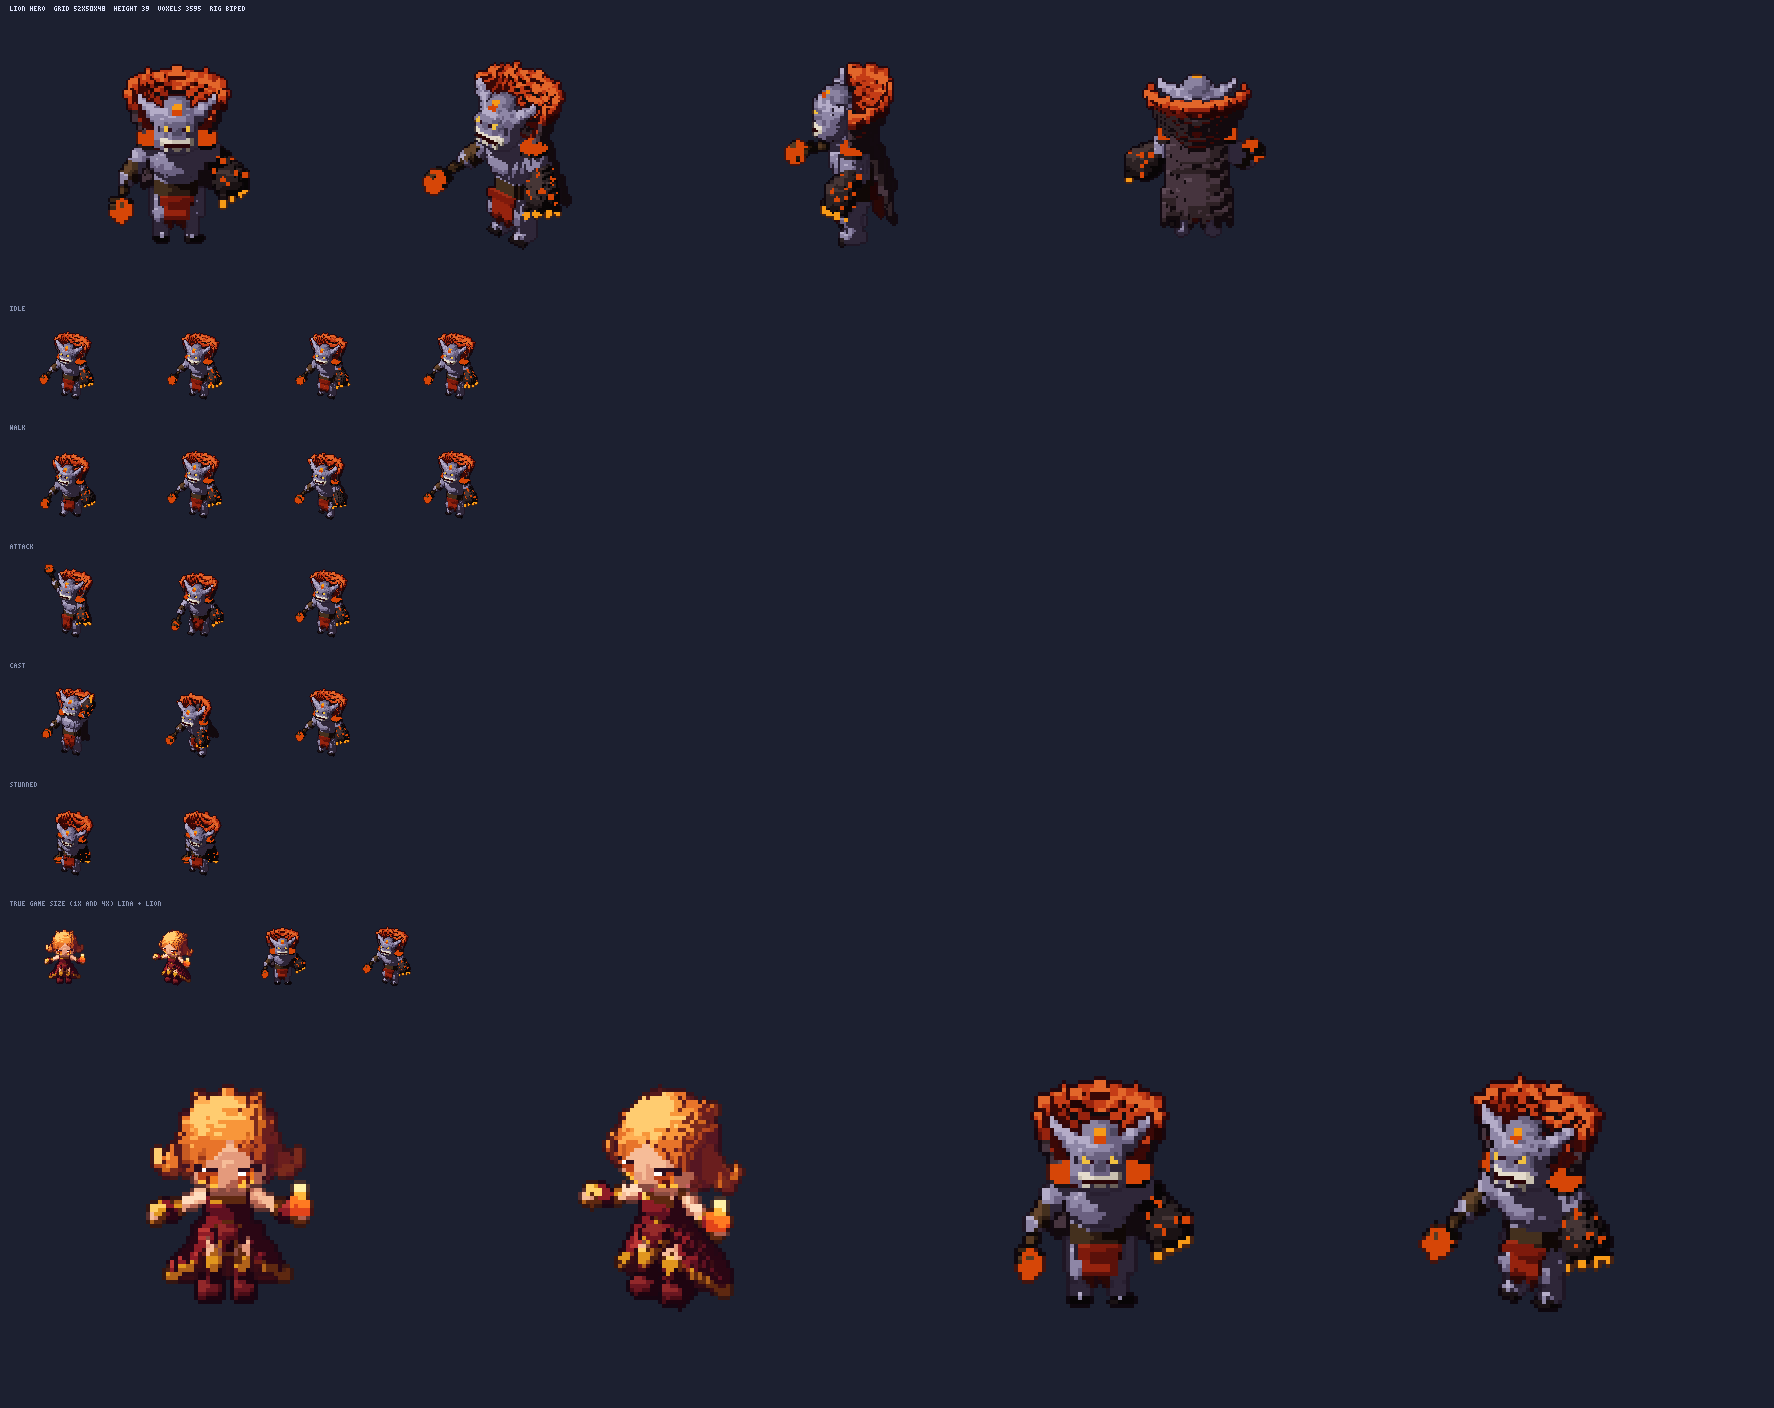
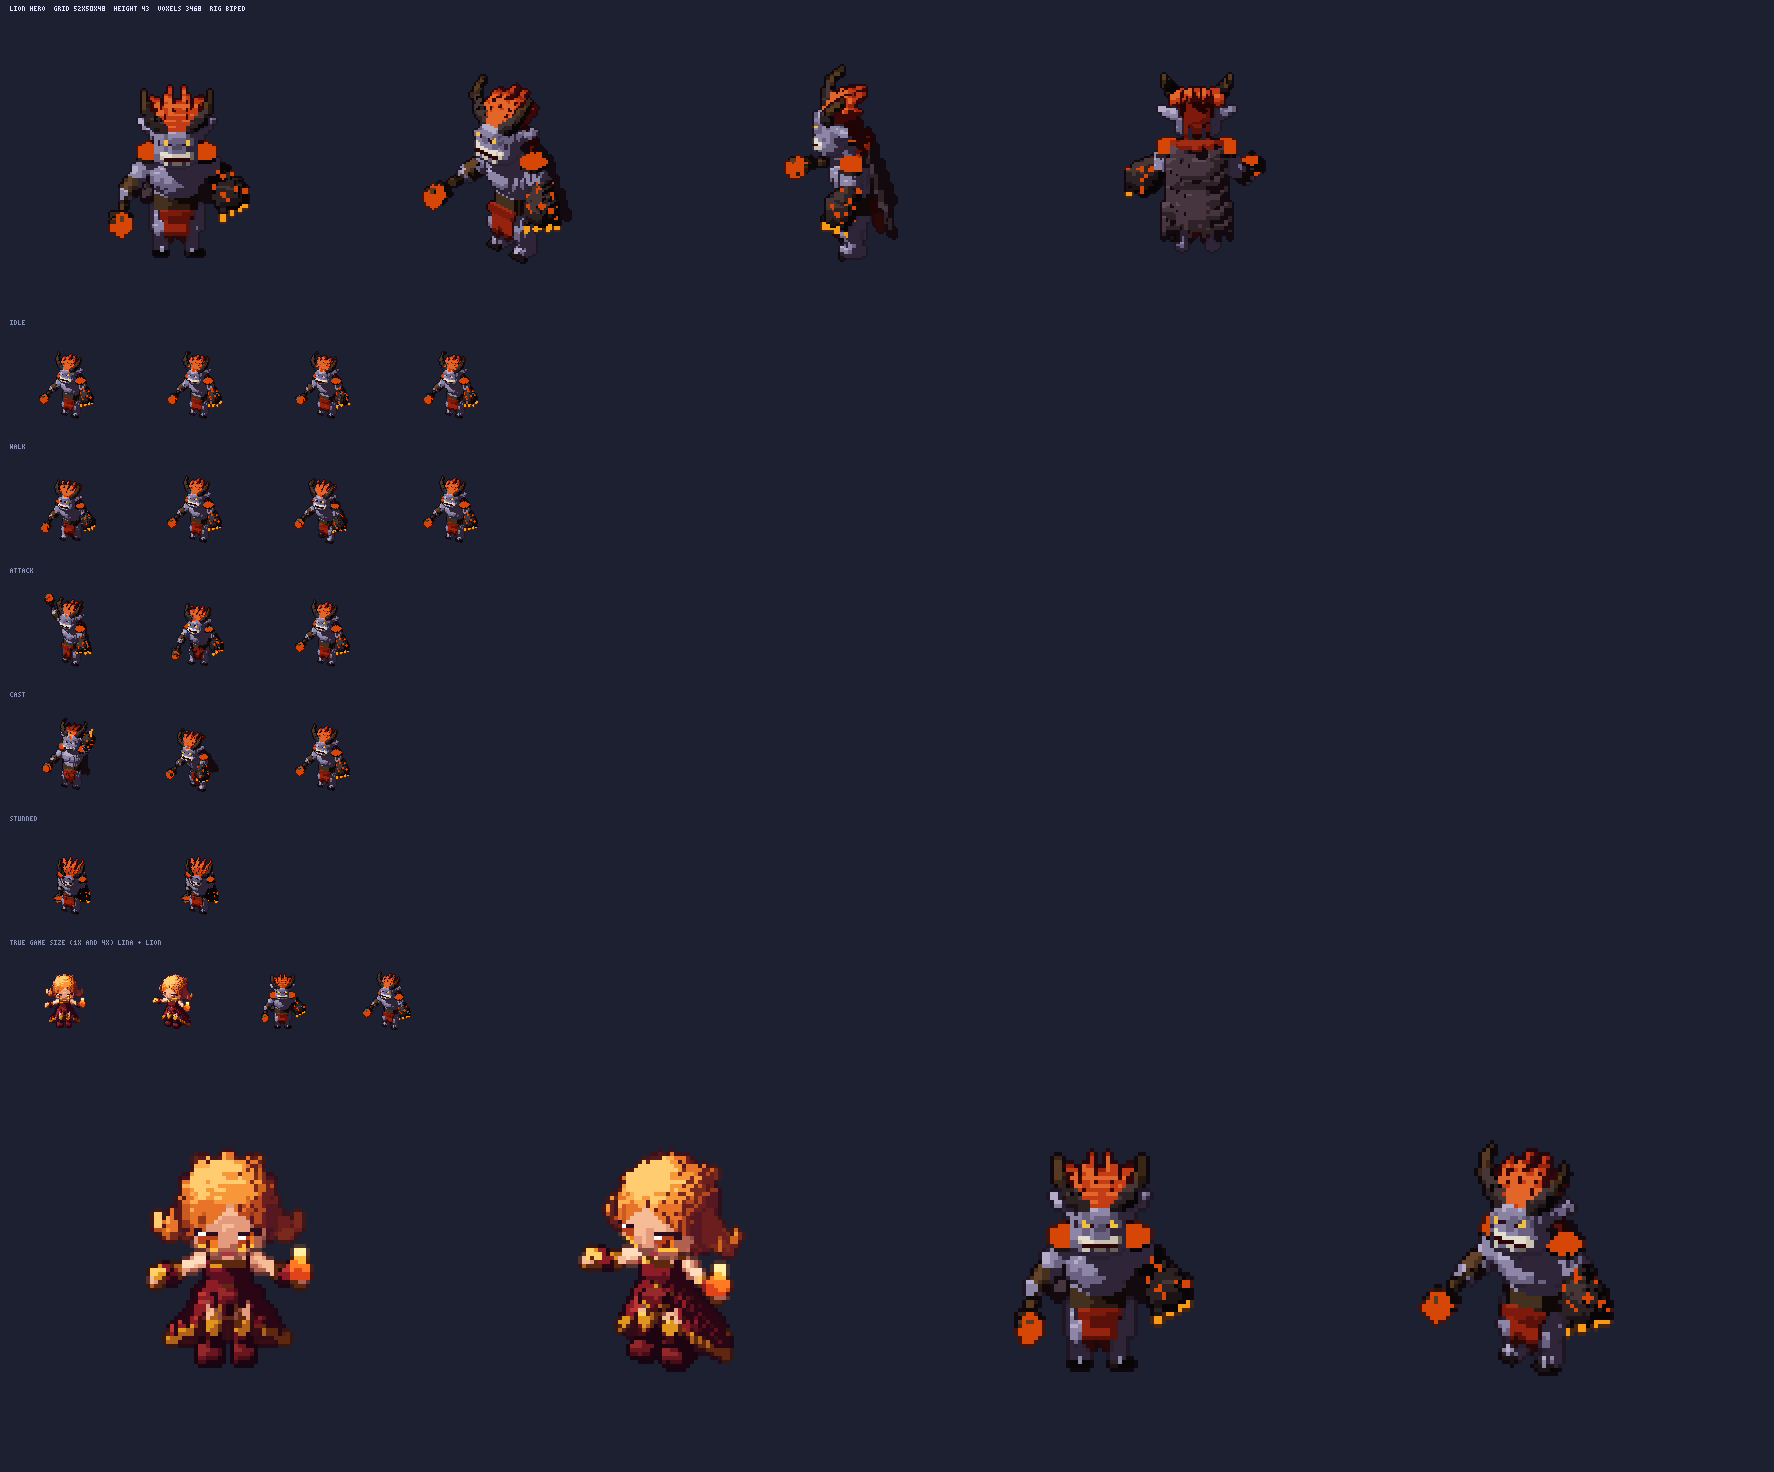
Lion review fixes: swept-back mane + two curved horns (no hood fan), brighter portrait framed on the face

diff --git a/client/src/art/portraits/lion.js b/client/src/art/portraits/lion.js
@@ -1,7 +1,7 @@
 // GENERATED by tools/vox/portrait.mjs (lion) -- do not edit by hand. Voxel HUD portrait 32x42 (= the 32x42 the HUD shows, 1 art px = 1 u), opaque.
 // Loaded by client/src/art/portraits.js, which swaps it into the sheet's 'portrait' frame unless ?vox=0.
 export default {
-  pal: { '0':'#060405', '1':'#9aa7e3', '2':'#1f1624', '3':'#d9c1b5', '4':'#241e2c', '5':'#847477', '6':'#8c401f', '7':'#c2633e', '8':'#120911', '9':'#0e070e', '!':'#141110', '#':'#1f1613', '$':'#351f16', '%':'#2e2638', '&':'#6a6080', '(':'#5a2d1a', ')':'#3a0806', '*':'#24080e', '+':'#d64607', ',':'#080506', '-':'#8e86a6', '/':'#58493d', ':':'#0c0605', ';':'#c8c0b0', '<':'#2a0608', '=':'#eea26e', '>':'#d96f42', '?':'#6a6058', '@':'#4e4760', 'A':'#c43c16', 'B':'#b29582', 'C':'#120a0e', 'D':'#41140f', 'E':'#a78c74', 'F':'#94553a', 'G':'#6a6280', 'H':'#0b050b', 'I':'#534b64', 'J':'#8d7357', 'K':'#9ca9e3', 'L':'#18060d', 'M':'#757eac', 'N':'#0e080b', 'O':'#b08598', 'P':'#f79a16', 'Q':'#c6afa3', 'R':'#99a5e1', 'S':'#b4a4ae', 'T':'#746668', 'U':'#2f2226', 'V':'#737bae', 'W':'#221c2c', 'X':'#715c54', 'Y':'#fbe4c4', 'Z':'#1a1214', '[':'#11080e', ']':'#2a1a12', '^':'#453930', '_':'#7882b1', 'a':'#4e567a', 'b':'#826d5a', 'c':'#18111c', 'd':'#b28a9d', 'e':'#b1889a', 'f':'#96230e', 'g':'#a2919b', 'h':'#988992', 'i':'#d08864', 'j':'#8f6a8e', 'k':'#954d37', 'l':'#f0c040', 'm':'#2a0e1e', 'n':'#625048', 'o':'#74769a', 'p':'#0d060b', 'q':'#44301e', 'r':'#646e9d', 's':'#a9978d', 't':'#4d3d2e', 'u':'#675a5d', 'v':'#140e10', 'w':'#9eaae4', 'x':'#8995d1', 'y':'#8793d0', 'z':'#8a7b82', '{':'#747bae', '|':'#7178ac', '}':'#b3a28e', '~':'#7279ad', '¡':'#96a2dd', '¢':'#66709f', '£':'#634e3b', '¤':'#100806', '¥':'#46343e', '¦':'#6f6981', '§':'#372930', '¨':'#493a43', '©':'#090605', 'ª':'#352517', '«':'#120d15', '¬':'#2d1e11', '®':'#886f53', '¯':'#291e24', '°':'#424458', '±':'#180f0a', '²':'#3a2d22', '³':'#050303', '´':'#905a0d', 'µ':'#371b0e' },
+  pal: { '0':'#292232', '1':'#0e070e', '2':'#0f080e', '3':'#d9c1b5', '4':'#24080e', '5':'#a78c74', '6':'#070405', '7':'#b4acc8', '8':'#4e4760', '9':'#58493d', '!':'#141110', '#':'#1f1613', '$':'#351f16', '%':'#2e2638', '&':'#6a6080', '(':'#d64607', ')':'#1a1214', '*':'#96230e', '+':'#1f1624', ',':'#080506', '-':'#5a2d1a', '/':'#8e86a6', ':':'#847477', ';':'#2a0608', '<':'#c8c0b0', '=':'#41140f', '>':'#6a6058', '?':'#af8e6b', '@':'#9ca9e5', 'A':'#5f5673', 'B':'#c2633e', 'C':'#717498', 'D':'#eea26e', 'E':'#614f44', 'F':'#3a0806', 'G':'#2c2224', 'H':'#646e9d', 'I':'#99a5e1', 'J':'#0f070d', 'K':'#0d060d', 'L':'#c3aea3', 'M':'#967e68', 'N':'#9aa7e3', 'O':'#18060d', 'P':'#fbe4c4', 'Q':'#120a0e', 'R':'#76779a', 'S':'#8792c7', 'T':'#1c1420', 'U':'#807995', 'V':'#a38464', 'W':'#55434d', 'X':'#73769a', 'Y':'#707497', 'Z':'#b1889a', '[':'#e8844c', ']':'#b28799', '^':'#6a574c', '_':'#d96f42', 'a':'#66709f', 'b':'#67719f', 'c':'#656f9e', 'd':'#9daae4', 'e':'#c7b7bf', 'f':'#8a7b82', 'g':'#c6afa3', 'h':'#8a82a0', 'i':'#f0c040', 'j':'#2a0e1e', 'k':'#916b8e', 'l':'#7e1a0c', 'm':'#5a110a', 'n':'#11080e', 'o':'#2a1a12', 'p':'#4f4237', 'q':'#3d2b1b', 'r':'#0e0705', 's':'#c13f06', 't':'#2a1f22', 'u':'#5a638d', 'v':'#77686b', 'w':'#251f2d', 'x':'#836447', 'y':'#b2899b', 'z':'#8c401f', '{':'#755a41', '|':'#c43c16', '}':'#6a73a1', '~':'#6872a0', '¡':'#b4a4ae', '¢':'#6a6280', '£':'#19111f', '¤':'#221c2c', '¥':'#b3a28e', '¦':'#3a3033', '§':'#e2d2ba', '¨':'#96a2dd', '©':'#44301e', 'ª':'#2f2226', '«':'#6a6b8b', '¬':'#5a3e28', '®':'#261710', '¯':'#10090d', '°':'#8a94ca', '±':'#8c98ce', '²':'#100806', '³':'#3f2f38', '´':'#5e4a56', 'µ':'#3a120e', '¶':'#8b96cc', '·':'#736d86', '¸':'#594635', '¹':'#261c1f', 'º':'#564e68', '»':'#060405', '¼':'#281f20', '½':'#171012', '¾':'#473b31' },
   face: [4, 11, 24, 24],
   rows: [
     '!!!!!!!!!!!#!#!#!#######!#!#!!!!',
@@ -11,40 +11,40 @@ export default {
     '!!!!!!!#!######$#$#$#$#$######!#',
     '!!!!!!#!####$#$$$$$$$$$$$#$#####',
     '!!!!!#!#!####$#$$$$$$$$$$$#$####',
-    '!!!!#!####$#$$$$($($($($($$#$###',
-    '!!!!!!!#!##$#$$$$($($($($$$$####',
-    '!!#!#!####$#$$($($((((($($$$$#$#',
-    '!!!!!#!####$$$$($((((((($($$#$##',
-    '!!!!####$#$$$$($((6(6(((($$$$#$#',
-    '!!!!!#!####$#$$($((6(6(($$$$#$##',
-    '!!#!#!####$$$$((((666(6(($($$#$#',
-    '!!!!!#*##$#**$$(((*6(6(($($$#$##',
-    '!!!***d2***e=*****d****22*$$$#$#',
-    '!!*e>=>w7fA>>77>A7>7F7>Kg=*$####',
-    '!!*O>=)K3f))))xhhPPQAAAR5=*$$#$#',
-    '!!*O7=)KS3)))yGG@P+QA1&55=*$#$##',
-    '!!*O7)))KSS--G--@++T%%%37iL#$###',
-    '!!!Ljk=))1-----&-&&g5%557iL$####',
-    '!!!LjkF))1&&&--G@@@zTT3UB8$#####',
-    '!!!!8VF)C)1&-&G@lm@WmlQnB8####!#',
-    '!!!!8{X))C)1-&&&&&WW%53FB8#####!',
-    '!!!!8|XF))C)1&&&&&%%%53B8###!#!#',
-    '!!!!!8Vn)))C1&;;;;???}YB8####!#!',
-    '!!!!!8~X)))1-&;;;;??<<YD##!#!#!!',
-    '!!!!!!DVB))CR&;<<<<<<<3+D##!#!#!',
-    '!!!!!D+++++)R&%%?%??%Y++D#!#!!!!',
-    '!!!!!D++++++%¡%%%%%%3+++2!#!!!!!',
-    '!!!!!9¢Z++/,%&&%%%%,,,//32!!!!!!',
-    '!!!!!21ZZ%,)%&&&%%%%%%%539!!#!!!',
-    '!!!!!21&&%%%&&&&&%%%%%%55E9!!!!!',
-    '!!!!21-&&%&&&&&&&&%%%%%%//E99!!!',
-    '!!!!21-&%%-&&&&&&%%%%%,,,///E99!',
-    '!!!![1&%%%&&&&&&%%%%%%,,,,,///E9',
-    '!!![o]]%%%&&&%%%%%%%%%,,+,,,,/E9',
-    '!!poq]:£3UM%%%4%%%4%32Hr,,0+,/^E',
-    '!!2_qI¤J¥NCM%4%4%4%s2!9a,0,0+0/b',
-    '!!c_¦ItJ§¨M4I44444usc!Ha00v000^b',
-    '!!c_&©uJUª::%II4%:tJ[!!Hr000,0bH',
-    '!!«M¬®¯NNN°:::±:::²Jp!!!Ha³v0^´µ'
+    '!!!!#!#2##$#$$$$-$-$-$-$-$$#$###',
+    '!!!!!!2X2##$#$$$$-$-$-$-2$$$####',
+    '!!#!#!2Y?2$#$$-$-$-----2X2$$$#$#',
+    '!!!!!#2C?2#$44$44------2C?2$#$##',
+    '!!!!##2Cx?14yD4ZD44-z--2C?2$$#$#',
+    '!!!!!#!2Y{51Z|*[[BD444-1}E?2#$##',
+    '!!#!#!#4]~^5FB***BBB_D1aG51$$#$#',
+    '!!!!!#!4]b^E)FF*****_*G)E51$#$##',
+    '!!!!####1aG)))F*******))E51$$#$#',
+    '!!!!!#!#1c)))))******G))951$####',
+    '!!#!#+++#1H,))))*****),)5+$$$#$#',
+    '!!!!+de3+++H))))/&&&&,,5:3+$#$##',
+    '!!!!#+d¡e777))))/&&&&f3%3+$#$###',
+    '!!!!!!+N&777&&&888888fg3+$#$####',
+    '!!!!!!#+I7/7/hh¢ij888jig£#$#####',
+    '!!!!!!!#++I///&&&&88¤%:3+$####!#',
+    '!!!!#!#!##+@&7&&&&&8%%:3+######!',
+    '!!!!!!!!!OO@&7/&&&&&%%:3+###!#!#',
+    '!!!!!!#!Okl@7/<<<<<<>>¥P¦####!#!',
+    '!!!!!!!=kmm@7&<;;;;;;;;P=#!#!#!!',
+    '!!!!!==(l(QI&&%<;%>>>%§3(=#!#!#!',
+    '!!!!=((((((QI&%%>%%>%%P((=!#!!!!',
+    '!!!=((((((((Q¨%%%%%%3((((+#!!!!!',
+    '!!!1b(((((9%%/&%%%%%,,,993+!!!!!',
+    '!!!!1c)),,,%%&//%%%%%%%%:3+!#!!!',
+    '!!!!+N/&%%%%&&//&%%%%%%%::31!!!!',
+    '!!!!+N/&&%%&//&&&&%%%%%%%:(51!!!',
+    '!!!+@/&&&&&/&/&&&&&%%%%%,,9(511!',
+    '!!!n@/&%%&&/&&&&&&&%%%%,,,,99951',
+    '!!nR//&%%&&&&&&&&&%%%&&,,,,,,995',
+    '!!JR©o0%%&A&&&A&%%0%%3KH,(6,,,p5',
+    '!JRqor%LªS%0&A%0%0%0:L+KH6,6(s9M',
+    'J«¬q®rLtt¯°000000000LT!Ku66666sM',
+    '+±UU²V³W´S00%A00%00v3T!µ(666,6pM',
+    'T¶·U¸V¹WWSw0AAº000wvVJ!!Ku»¼½6¾M'
   ]
 };

diff --git a/shared/vox/heroes/lion.js b/shared/vox/heroes/lion.js
@@ -76,11 +76,10 @@ export function build(p = {}) {
     return M.cape;
   });
 
-  // ---- hood: the tall red-orange fan flaring up and out behind the head, open in front, spiky rim; darker inside
+  // ---- cape collar: a low dark plum rim round the back of the neck (the mane falls onto it)
   collar(v, T.torso, {
-    c: [cx, cy + 0.6], z0: 23, z1: 37.5, r0: 5.6, r1: 12, flare: 0.7, sy: 0.7, th: 1.8, lean: 0.24,
-    open0: 84, open1: 76, spikes: 3, phase: 0, spike: 1.2,
-  }, (px, py, pz, f, inner) => (inner || f > 0.82 ? M.hood : f > 0.7 ? M.hoodD : M.cape));
+    c: [cx, cy + 0.6], z0: 23, z1: 28, r0: 5.6, r1: 7, sy: 0.8, th: 1.6, open0: 110, open1: 110,
+  }, (px, py, pz, f) => (f > 0.75 ? M.hoodD : M.cape));
 
   // ---- arms. Right: lavender arm, small fist on the staff. Left: lavender upper arm into the huge black demon forearm + claw, orange cracks.
   const crack = (px, py, pz) => (Math.sin(px * 1.9 + pz * 1.3) * Math.cos(py * 1.7 - pz * 0.9) > 0.62 ? M.glow : M.claw);
@@ -123,11 +122,24 @@ export function build(p = {}) {
   ell(v, Th, [hx, hy, hz], [5, 4.6, 5], M.skin);
   ell(v, Th, [hx, hy - 1, hz - 3], [5.2, 4.2, 2.8], M.skin);
   ell(v, Th, [hx, hy - 3.4, hz + 1.2], [4.4, 1.4, 1.2], M.skinD);   // heavy brow
-  for (const s of [-1, 1]) {
-    cap(v, Th, [hx + s * 4, hy + 0.8, hz + 1], [hx + s * 7.6, hy + 2, hz + 4.6], 1.6, M.skin, 0.9);
-    cap(v, Th, [hx + s * 7.6, hy + 2, hz + 4.6], [hx + s * 9.4, hy + 2.8, hz + 7.4], 0.9, M.skin, 0.35);
+  for (const s of [-1, 1]) {   // pointed bat ears, swept out and back below the horns
+    cap(v, Th, [hx + s * 4, hy + 0.8, hz + 0.4], [hx + s * 7.2, hy + 2.4, hz + 2], 1.4, M.skin, 0.8);
+    cap(v, Th, [hx + s * 7.2, hy + 2.4, hz + 2], [hx + s * 8.8, hy + 3.6, hz + 3.6], 0.8, M.skin, 0.3);
   }
-  ell(v, Th, [hx, hy + 1, hz + 4], [3, 3.4, 1.8], M.skinD);   // the crest ridge over the crown
+  // the mane: red-orange locks swept up and back from the brow over the crown, tips flaring high behind the head, then falling to the nape
+  const lock = (px, py, pz) => (pz > hz + 8 ? M.hood : py > hy + 4 ? M.hoodD : M.hood);
+  for (const s of [-3, -1, 1, 3]) {
+    const a = [hx + s * 1.1, hy - 0.4, hz + 4.2], m = [hx + s * 1.5, hy + 3.2, hz + 7 - Math.abs(s) * 0.4], b = [hx + s * 2, hy + 7.6, hz + 9.6 - Math.abs(s) * 0.7];
+    cap(v, Th, a, m, 1.7, lock, 1.4);
+    cap(v, Th, m, b, 1.4, lock, 0.4);
+  }
+  for (const s of [-2, 0, 2]) cap(v, Th, [hx + s, hy + 3, hz + 4], [hx + s * 1.3, hy + 6.4, hz - 3.4], 1.8, M.hoodD, 0.6);   // fall down the nape
+  // horns: two dark curved horns from the temples, out and up, hooking back at the tips
+  for (const s of [-1, 1]) {
+    const P = [[hx + s * 3.2, hy - 1.2, hz + 3.4], [hx + s * 5.6, hy - 1, hz + 5.6], [hx + s * 7.2, hy, hz + 8.2], [hx + s * 7.4, hy + 2, hz + 10.4], [hx + s * 6.6, hy + 4, hz + 11.4]];
+    const R = [1.4, 1.15, 0.9, 0.6, 0.35];
+    for (let i = 0; i + 1 < P.length; i++) cap(v, Th, P[i], P[i + 1], R[i], i < 2 ? M.claw : M.wood, R[i + 1]);
+  }
 
   // ---- face, painted on the front-most head voxels only (never on the claw or staff in front): brow gem, small yellow eyes under the brow,
   // a wide grin with a row of teeth. Integer rows from the posed head (paintFront indexes cells).
@@ -170,4 +182,4 @@ export const ANIMS = {
 };
 
 /** HUD portrait framing (tools/vox/portrait.mjs): idle, the grinning head in the upper third with the red hood fanned behind it. */
-export const PORTRAIT = { pose: ANIMS.idle[0], center: [cx, HY, 33.5], scale: 1.05, fov: 24, sig: '#d64607', face: [4, 11, 24, 24] };
+export const PORTRAIT = { pose: ANIMS.idle[0], center: [cx, HY, 32.5], scale: 1.2, fov: 24, sig: '#d64607', ambient: 0.42, levels: [0.6, 0.85, 1], falloff: 0.1, face: [4, 11, 24, 24] };
